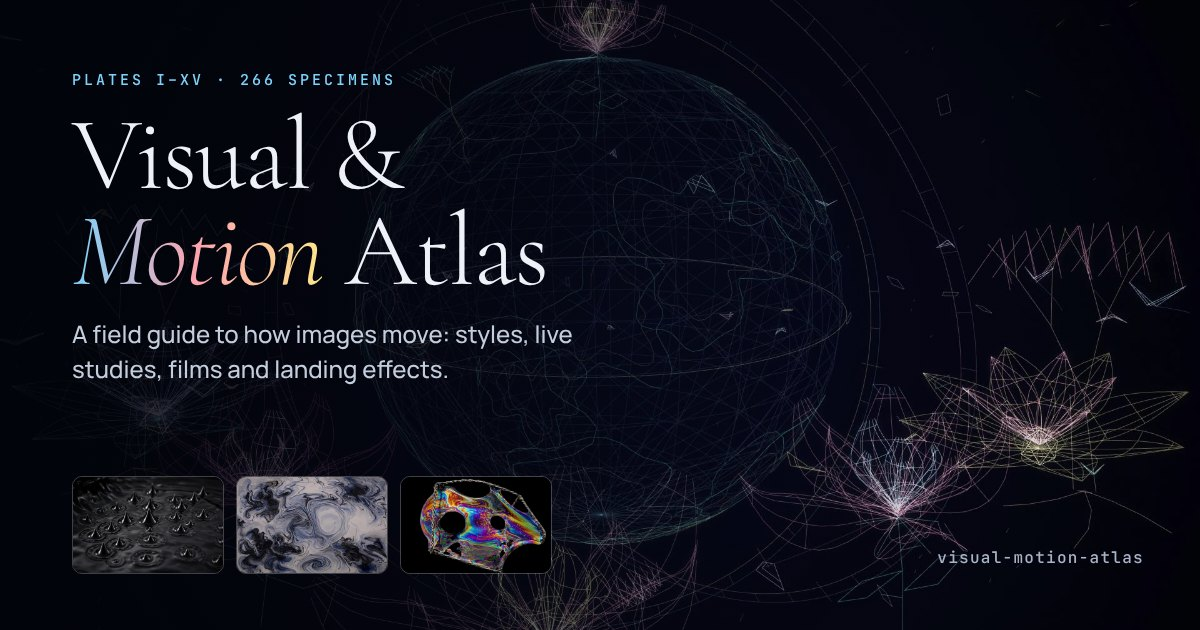
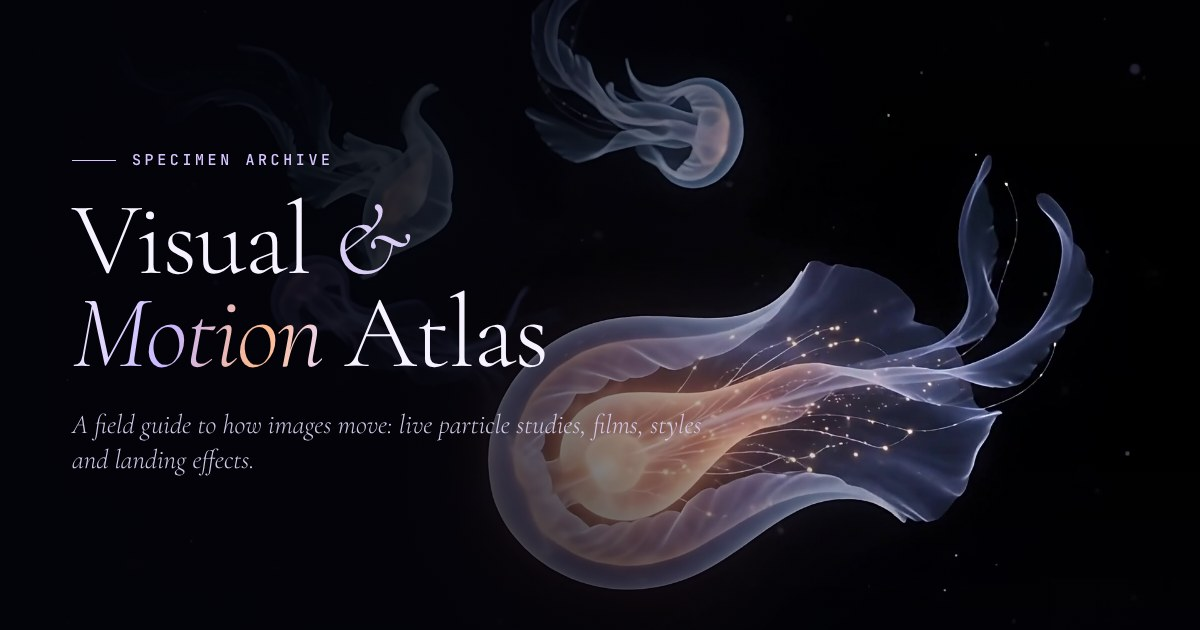
Performance pass, low-power mode, adaptive sharpness, new share card, a11y fixes
- Hero loads only on the home page; Genesis art only when chosen; one video
  source per device (720p MP4 with WebM fallback on phones)
- River creates media lazily within 40% of view
- Low-power devices (Data Saver, no/soft WebGL, <=2 GB) get films and stills
  instead of live WebGL, with a 'Show live motion' opt-in
- Studies step their pixel ratio down when frames run slow
- Share card shows the jellyfish; canonical/OG/sitemap/robots point at the
  live Vercel site
- Accessible names for the finder button, reel heading and code panel

Claude-Session: https://claude.ai/code/session_01KjCgApHxzQCxtiXf1eMKgi

Changed region(s): [[0.0617, 0.0, 0.9867, 1.0], [0.7708, 0.1508, 0.8017, 0.181], [0.74, 0.2111, 0.7708, 0.2413]]

diff --git a/site/atlas.html b/site/atlas.html
@@ -1,4 +1,4 @@
-<!doctype html><html lang="en"><head><meta charset="utf-8"><meta name="viewport" content="width=device-width,initial-scale=1"><meta name="description" content="A field guide to how images move: 266 visual styles, animation techniques, live motion studies, specimen films, UI components and landing-page effects, each with briefs, prompts and code."><title>Visual &amp; Motion Atlas: styles, motion studies and landing effects</title><link rel="canonical" href="https://visual-motion-atlas.indiaroseclifton.chatgpt.site/atlas"><meta name="theme-color" content="#02040b"><link rel="icon" href="assets/favicon.svg" type="image/svg+xml"><meta property="og:type" content="website"><meta property="og:site_name" content="Visual &amp; Motion Atlas"><meta property="og:title" content="Visual &amp; Motion Atlas"><meta property="og:description" content="A field guide to how images move: styles, live studies, specimen films and landing effects."><meta property="og:url" content="https://visual-motion-atlas.indiaroseclifton.chatgpt.site/atlas"><meta property="og:image" content="https://visual-motion-atlas.indiaroseclifton.chatgpt.site/assets/og-atlas.jpg"><meta property="og:image:width" content="1200"><meta property="og:image:height" content="630"><meta property="og:image:alt" content="Visual &amp; Motion Atlas: the Genesis film with ferrofluid, ink marbling and soap film stills"><meta name="twitter:card" content="summary_large_image"><meta name="twitter:title" content="Visual &amp; Motion Atlas"><meta name="twitter:description" content="A field guide to how images move: styles, live studies, specimen films and landing effects."><meta name="twitter:image" content="https://visual-motion-atlas.indiaroseclifton.chatgpt.site/assets/og-atlas.jpg"><script type="application/ld+json">{"@context": "https://schema.org", "@graph": [{"@type": "WebSite", "@id": "https://visual-motion-atlas.indiaroseclifton.chatgpt.site/#site", "name": "Visual & Motion Atlas", "url": "https://visual-motion-atlas.indiaroseclifton.chatgpt.site/atlas", "description": "A field guide to how images move: 266 visual styles, animation techniques, live motion studies, specimen films, UI components and landing-page effects, each with briefs, prompts and code.", "inLanguage": "en"}, {"@type": "CollectionPage", "@id": "https://visual-motion-atlas.indiaroseclifton.chatgpt.site/atlas#page", "url": "https://visual-motion-atlas.indiaroseclifton.chatgpt.site/atlas", "name": "Visual & Motion Atlas: styles, motion studies and landing effects", "isPartOf": {"@id": "https://visual-motion-atlas.indiaroseclifton.chatgpt.site/#site"}, "about": ["Visual design styles", "Motion design", "Animation techniques", "UI components", "Landing page effects"], "primaryImageOfPage": "https://visual-motion-atlas.indiaroseclifton.chatgpt.site/assets/og-atlas.jpg"}]}</script><link rel="stylesheet" href="system-presets.css"><link rel="stylesheet" href="app.css"><link rel="stylesheet" href="guides.css"><link rel="stylesheet" href="creator.css"><link rel="stylesheet" href="landing.css"><link rel="stylesheet" href="publishing.css"><link rel="stylesheet" href="extracted.css"><link rel="preconnect" href="https://fonts.googleapis.com"><link rel="preconnect" href="https://fonts.gstatic.com" crossorigin><link rel="stylesheet" href="https://fonts.googleapis.com/css2?family=Cormorant+Garamond:ital,wght@0,300;0,400;1,300;1,400&family=Manrope:wght@400;500;600&family=JetBrains+Mono:wght@400;500&display=swap"><link rel="stylesheet" href="home.css"><link rel="stylesheet" href="atlas-theme.css"><link rel="stylesheet" href="atlas-enhance.css"><link rel="stylesheet" href="component-lab.css"><link rel="stylesheet" href="effects-lab.css"><link rel="stylesheet" href="motion-lab.css"><link rel="stylesheet" href="new-styles.css"><link rel="stylesheet" href="atlas-features.css"><link rel="stylesheet" href="specimen-films.css"><link rel="stylesheet" href="live-sims.css"><link rel="stylesheet" href="atlas-share.css"><link rel="stylesheet" href="atlas-explore.css"><link rel="stylesheet" href="atlas-tours.css"><link rel="stylesheet" href="backgrounds.css"><link rel="stylesheet" href="showcase.css"><link rel="stylesheet" href="studio-river.css"><link rel="stylesheet" href="atlas-refine.css"><link rel="stylesheet" href="system-previews.css"><link rel="stylesheet" href="art-references.css"></head><body><noscript><div style="max-width:760px;margin:40px auto;padding:0 16px;font-family:system-ui,sans-serif;line-height:1.6;color:#0d1220"><h1>Visual &amp; Motion Atlas</h1><p>A field guide to how images move: 266 visual styles, animation techniques, live motion studies, specimen films, UI components and landing-page effects, each with briefs, prompts and code.</p><h2>Inside the atlas</h2><ul><li>Catalogue: 266 specimens across visual styles, design elements, animation art, interface motion, cinematic directions, UI components, landing effects and design systems.</li><li>Animation studio: 60 working animations, 5 live simulations (Lorenz attractor, double pendulum, reaction-diffusion, metaballs, ferrofluid), an easing lab and a film library.</li><li>Landing effects lab: 37 scroll, pointer and film effects with copy-ready code.</li><li>UI component lab: 40 components in 22 themes with HTML, CSS, React and token export.</li><li>Design systems, fonts and pairings, icon families, inspiration boards and project briefs.</li></ul><p>The atlas is interactive and needs JavaScript.</p></div></noscript>
+<!doctype html><html lang="en"><head><meta charset="utf-8"><meta name="viewport" content="width=device-width,initial-scale=1"><meta name="description" content="A field guide to how images move: 266 visual styles, animation techniques, live motion studies, specimen films, UI components and landing-page effects, each with briefs, prompts and code."><title>Visual &amp; Motion Atlas: styles, motion studies and landing effects</title><link rel="canonical" href="https://motionatlas-ten.vercel.app/atlas"><meta name="theme-color" content="#02040b"><link rel="icon" href="assets/favicon.svg" type="image/svg+xml"><meta property="og:type" content="website"><meta property="og:site_name" content="Visual &amp; Motion Atlas"><meta property="og:title" content="Visual &amp; Motion Atlas"><meta property="og:description" content="A field guide to how images move: styles, live studies, specimen films and landing effects."><meta property="og:url" content="https://motionatlas-ten.vercel.app/atlas"><meta property="og:image" content="https://motionatlas-ten.vercel.app/assets/og-atlas.jpg?v=2"><meta property="og:image:width" content="1200"><meta property="og:image:height" content="630"><meta property="og:image:alt" content="Visual &amp; Motion Atlas: a glowing lantern jellyfish drifting beside the title"><meta name="twitter:card" content="summary_large_image"><meta name="twitter:title" content="Visual &amp; Motion Atlas"><meta name="twitter:description" content="A field guide to how images move: styles, live studies, specimen films and landing effects."><meta name="twitter:image" content="https://motionatlas-ten.vercel.app/assets/og-atlas.jpg?v=2"><script type="application/ld+json">{"@context": "https://schema.org", "@graph": [{"@type": "WebSite", "@id": "https://motionatlas-ten.vercel.app/#site", "name": "Visual & Motion Atlas", "url": "https://motionatlas-ten.vercel.app/atlas", "description": "A field guide to how images move: 266 visual styles, animation techniques, live motion studies, specimen films, UI components and landing-page effects, each with briefs, prompts and code.", "inLanguage": "en"}, {"@type": "CollectionPage", "@id": "https://motionatlas-ten.vercel.app/atlas#page", "url": "https://motionatlas-ten.vercel.app/atlas", "name": "Visual & Motion Atlas: styles, motion studies and landing effects", "isPartOf": {"@id": "https://motionatlas-ten.vercel.app/#site"}, "about": ["Visual design styles", "Motion design", "Animation techniques", "UI components", "Landing page effects"], "primaryImageOfPage": "https://motionatlas-ten.vercel.app/assets/og-atlas.jpg?v=2"}]}</script><link rel="stylesheet" href="system-presets.css"><link rel="stylesheet" href="app.css"><link rel="stylesheet" href="guides.css"><link rel="stylesheet" href="creator.css"><link rel="stylesheet" href="landing.css"><link rel="stylesheet" href="publishing.css"><link rel="stylesheet" href="extracted.css"><link rel="preconnect" href="https://fonts.googleapis.com"><link rel="preconnect" href="https://fonts.gstatic.com" crossorigin><link rel="stylesheet" href="https://fonts.googleapis.com/css2?family=Cormorant+Garamond:ital,wght@0,300;0,400;1,300;1,400&family=Manrope:wght@400;500;600&family=JetBrains+Mono:wght@400;500&display=swap"><link rel="stylesheet" href="home.css"><link rel="stylesheet" href="atlas-theme.css"><link rel="stylesheet" href="atlas-enhance.css"><link rel="stylesheet" href="component-lab.css"><link rel="stylesheet" href="effects-lab.css"><link rel="stylesheet" href="motion-lab.css"><link rel="stylesheet" href="new-styles.css"><link rel="stylesheet" href="atlas-features.css"><link rel="stylesheet" href="specimen-films.css"><link rel="stylesheet" href="live-sims.css"><link rel="stylesheet" href="atlas-share.css"><link rel="stylesheet" href="atlas-explore.css"><link rel="stylesheet" href="atlas-tours.css"><link rel="stylesheet" href="backgrounds.css"><link rel="stylesheet" href="showcase.css"><link rel="stylesheet" href="studio-river.css"><link rel="stylesheet" href="atlas-refine.css"><link rel="stylesheet" href="system-previews.css"><link rel="stylesheet" href="art-references.css"></head><body><noscript><div style="max-width:760px;margin:40px auto;padding:0 16px;font-family:system-ui,sans-serif;line-height:1.6;color:#0d1220"><h1>Visual &amp; Motion Atlas</h1><p>A field guide to how images move: 266 visual styles, animation techniques, live motion studies, specimen films, UI components and landing-page effects, each with briefs, prompts and code.</p><h2>Inside the atlas</h2><ul><li>Catalogue: 266 specimens across visual styles, design elements, animation art, interface motion, cinematic directions, UI components, landing effects and design systems.</li><li>Animation studio: 60 working animations, 5 live simulations (Lorenz attractor, double pendulum, reaction-diffusion, metaballs, ferrofluid), an easing lab and a film library.</li><li>Landing effects lab: 37 scroll, pointer and film effects with copy-ready code.</li><li>UI component lab: 40 components in 22 themes with HTML, CSS, React and token export.</li><li>Design systems, fonts and pairings, icon families, inspiration boards and project briefs.</li></ul><p>The atlas is interactive and needs JavaScript.</p></div></noscript>
 <a href="#main" class="skiplink">Skip to content</a>
 <header><a class="brand" href="#home" aria-label="Visual and Motion Atlas home"><span class="brandmark">V/M</span><span>VISUAL &amp; MOTION<br>ATLAS / SPECIMEN ARCHIVE</span></a><nav aria-label="Main"><a href="#home">Home</a><a href="#browse">Catalogue</a><a href="#systems">Design systems</a><a href="#motion">Animation studio</a><a href="#tours">Guided tours</a><details class="navGroup studioGroup"><summary>Your studio</summary><div><a href="#projects">My projects</a><a href="#inspiration">Inspiration</a></div></details></nav><nav class="librarynav" aria-label="Libraries"><details class="navGroup"><summary>Visual</summary><div><a href="#art">Art styles</a><a href="#cinema">Film looks</a><a href="#backgrounds">Backgrounds</a><a href="#vases">Vase studies</a><a href="#pairings">Style pairings</a><a href="#compare">Compare styles</a></div></details><details class="navGroup"><summary>Motion</summary><div><a href="#motion">Animation studio</a><a href="#effects">Landing effects</a><a href="#showcase">Showcase reels</a><a href="particle-studio.html">Particle studio</a></div></details><details class="navGroup"><summary>Interface</summary><div><a href="#systems">Design systems</a><a href="#ux">UI components</a><a href="#icons">Icon families</a><a href="#typography">Fonts &amp; type</a><a href="#playground">System playground</a><a href="#assets">Extracted assets</a></div></details><a href="#references">Sources &amp; credits</a></nav></header>
 <main id="main" tabindex="-1"><div id="routeTrail" class="routeTrail" aria-label="Current location"></div><section id="browse" class="page active"><div class="archivehead"><h1>Catalogue.</h1><div class="archivenote"><p>Explore interface systems, components, materials, art and motion. Choose a collection to focus the view, or search across the whole Atlas.</p><p>222 specimens · 32 web systems · 60 motion studies</p></div></div><div class="archiveworkspace"><aside class="collectionrail" aria-label="Collections"><p class="railtitle">Collections</p><button data-collection="" aria-pressed="true">All specimens <span>222</span></button><button data-collection="Art styles">Art styles <span>36</span></button><button data-collection="Styles" aria-pressed="false">Visual styles <span>22</span></button><button data-collection="Elements" aria-pressed="false">Design elements <span>16</span></button><button data-collection="Animation art" aria-pressed="false">Animation art <span>74</span></button><button data-collection="Interface motion" aria-pressed="false">Interface motion <span>20</span></button><button data-collection="Cinematic directions">Film looks <span>8</span></button><button data-collection="UX/UI components">UX/UI components <span>40</span></button><button data-collection="Landing effects">Landing effects <span>18</span></button><button data-collection="Design systems">Design systems <span>32</span></button><div class="railnote">References are generated interpretations and component studies. Original works are credited in the source library.</div><a class="railsource" href="#vases">All 40 vase treatments ↗</a><br><a class="railsource" href="#references">Original sources ↗</a></aside><div class="collectionbody"><div class="sectionhead"><h2>Contact sheet</h2><div class="viewtools"><button id="density" class="quiet" aria-pressed="false">Compact view</button><button id="advancedToggle" class="quiet" aria-expanded="false">More filters +</button></div></div><div class="filters"><label class="search"><span aria-hidden="true"><svg viewBox="0 0 24 24" width="18" height="18" fill="none" stroke="currentColor" stroke-width="1.5"><circle cx="10" cy="10" r="6"/><path d="m15 15 5 5"/></svg></span><input id="search" type="search" placeholder="Search glass, paper, particles, tabs…" aria-label="Search the catalogue"></label><label>Collection<select id="group"><option value="">All entries</option><option>Styles</option><option>Elements</option><option>Animation art</option><option>Interface motion</option><option>Cinematic directions</option><option>UX/UI components</option><option>Landing effects</option><option>Design systems</option><option>Art styles</option></select></label><label>Mood<select id="mood"><option value="">All moods</option><option>Calm</option><option>Expressive</option><option>Precise</option></select></label><button id="savedOnly" class="filterbutton" aria-pressed="false">Saved entries</button></div><div id="advanced" class="filters extra" hidden><label>Purpose<select id="purpose"><option value="">All purposes</option><option>Interface</option><option>Illustration</option></select></label><label>Effort<select id="effort"><option value="">All levels</option><option>Low</option><option>Medium</option><option>High</option></select></label><label>Medium<select id="medium"><option value="">All media</option></select></label><button id="clearFilters" class="quiet">Reset filters</button></div><p id="resultCount" class="resultcount" aria-live="polite">Loading the collection…</p><div id="grid" class="grid"></div><div class="loadrow"><button id="loadMore" class="secondary">Show more entries</button></div></div></div></section>

diff --git a/site/studio-river.js b/site/studio-river.js
@@ -5,38 +5,41 @@
    a couple of GPU contexts exist at a time. The whale opens the river and glides across its whole width. */
 (()=>{
  const ITEMS=[
-  {id:'whale',kind:'live',wide:true,src:'studies/whale-glide.html?hero',open:'studies/whale-glide.html',kicker:'Live particles · WebGL',title:'Whale, gliding.',
+  {id:'whale',kind:'live',wide:true,still:'assets/studies/whale-source.jpg',src:'studies/whale-glide.html?hero',open:'studies/whale-glide.html',kicker:'Live particles · WebGL',title:'Whale, gliding.',
    text:'About 52,000 grains of blue light, sampled from a still of a humpback, cross the page. A wave runs from head to fluke and a wake of dust is left behind in the water.',
    kit:{file:'whale-glide.html',modes:[['glide','Glide across'],['swim','Swim in place']],density:true,original:false,prompt:'A humpback whale made entirely of tiny glowing blue particles, side profile facing right, gliding through a deep black void. Electric-blue stardust outlines the body, flukes and long pectoral fins, with a trail of drifting particles behind the tail and a few soft out-of-focus blue bokeh orbs. Dark, cinematic, highly detailed, 3:2.'}},
-  {id:'lion',kind:'live',src:'studies/lion-phoenix.html?hero',open:'studies/lion-phoenix.html',kicker:'Live particles · WebGL',title:'Lion to phoenix.',
+  {id:'lion',kind:'live',still:'assets/studies/lion-source.jpg',src:'studies/lion-phoenix.html?hero',open:'studies/lion-phoenix.html',kicker:'Live particles · WebGL',title:'Lion to phoenix.',
    text:'A lion of golden dust, sampled from the reference still. The mane goes first, the dust turns through a spiral galaxy and settles as the phoenix from the film. An 8-second loop.',
    kit:{file:'lion-phoenix.html',modes:[['loop','Lion to phoenix'],['lion','Lion'],['phoenix','Phoenix']],density:true,original:true,prompt:'8-second particle animation to embed in a website. Warm golden particles form a lion’s head, hold, then scatter and reform into a phoenix with wings spread. Dramatic yet elegant luminous motion.'}},
   {id:'lionfilm',kind:'video',src:'assets/films/lion-phoenix.mp4',small:'assets/films/lion-phoenix-720.mp4',webm:'assets/films/lion-phoenix.webm',poster:'assets/films/lion-phoenix.jpg',open:'assets/films/lion-phoenix.mp4',kicker:'Film · loops seamlessly',title:'Lion to phoenix, the film.',
    text:'The original film the live study grew from: the lion dissolves into a golden vortex, a flash, and the phoenix opens its wings.',
    kit:{original:true,prompt:'8-second particle animation to embed in a website. Warm golden particles form a lion’s head, hold, then scatter and reform into a phoenix with wings spread. Dramatic yet elegant luminous motion.'}},
-  {id:'butterfly',kind:'live',src:'studies/butterfly.html?hero',open:'studies/butterfly.html',kicker:'Live particles · WebGL',title:'Glitter butterfly.',
+  {id:'butterfly',kind:'live',still:'assets/studies/butterfly-source.jpg',src:'studies/butterfly.html?hero',open:'studies/butterfly.html',kicker:'Live particles · WebGL',title:'Glitter butterfly.',
    text:'Grains sampled from a frame of the butterfly film, wings fully open. Each grain turns about the body, so the wings fold up out of the page and open again as it drifts, shedding glitter.',
    kit:{file:'butterfly.html',modes:[['flutter','Flutter'],['rest','Rest']],density:true,original:false,prompt:'A swallowtail butterfly formed from fine champagne-gold glitter, seen from directly above with its wings fully open, on pure black. Bright glittering edges and veins, translucent wing panels, a slow gentle wingbeat, a few grains drifting away. Vertical 2:3, 15 seconds, seamless loop.'}},
   {id:'jelly',kind:'video',src:'assets/films/jellyfish.mp4',small:'assets/films/jellyfish-720.mp4',webm:'assets/films/jellyfish.webm',poster:'assets/films/jellyfish.jpg',open:'assets/films/jellyfish.mp4',kicker:'Film · loops seamlessly',title:'Jellyfish, drifting.',
    text:'A lantern jellyfish with an amber core turns through the dark while paler ones drift past, trailing threads of light.',
    kit:{original:false,prompt:'Bioluminescent jellyfish drifting in a black void: one large lantern jellyfish with a glowing amber-peach core and a translucent lavender bell, smaller pale blue and violet jellyfish trailing long smoky tentacles and fine threads of light. Slow, graceful, cinematic, 16:9, 10 seconds, seamless loop.'}},
-  {id:'stardust',kind:'live',src:'studies/stardust-bird-fox.html?hero',open:'studies/stardust-bird-fox.html',kicker:'Live particles · WebGL',title:'Stardust: bird to fox.',
+  {id:'stardust',kind:'live',still:'assets/studies/stardust-still.jpg',src:'studies/stardust-bird-fox.html?hero',open:'studies/stardust-bird-fox.html',kicker:'Live particles · WebGL',title:'Stardust: bird to fox.',
    text:'Golden dust settles over animated models of a stork in flight and a running fox; every few seconds it lets go and re-forms as the other animal.',
    kit:{file:'stardust-bird-fox.html',modes:[['loop','Bird to fox'],['bird','Golden bird'],['fox','Running fox']],density:false,original:false,prompt:'Golden stardust forms a stork in flight with its wings raised in a V, shedding embers, then lets go and re-forms as a running fox, and back again. Additive gold particles on black, soft bokeh, elegant and calm.'}}];
 
+ const M=window.AtlasMotion||{lite:false,saveData:false,sources:s=>`<source src="${s.webm}" type="video/webm"><source src="${s.src}" type="video/mp4">`,setFull(){}};
  const esc=s=>String(s).replace(/&/g,'&amp;').replace(/</g,'&lt;');
  const reduce=matchMedia('(prefers-reduced-motion: reduce)');
- let held=reduce.matches; // the river-wide pause
+ let held=reduce.matches||M.saveData; // the river-wide pause (Data Saver starts it held)
  const rows=[];
 
  function mediaFor(it){
   if(it.kind==='video'){const v=document.createElement('video');Object.assign(v,{muted:true,loop:true,playsInline:true,preload:'none',poster:it.poster});v.setAttribute('muted','');v.setAttribute('aria-label',it.title.replace(/\.$/,''));
-   v.innerHTML=`${it.small?`<source src="${it.small}" type="video/mp4" media="(max-width: 900px)">`:''}<source src="${it.webm}" type="video/webm"><source src="${it.src}" type="video/mp4">`;return v;}
+   if(M.saveData)v.controls=true;v.innerHTML=M.sources(it);return v;}
+  // on a low-power device a live study shows its source still instead of running WebGL
+  if(M.lite){const im=document.createElement('img');im.src=it.still;im.alt='';im.decoding='async';im.className='riverStill';return im;}
   const f=document.createElement('iframe');f.src=it.src;f.title=it.title.replace(/\.$/,'')+', live study';f.tabIndex=-1;f.setAttribute('allowtransparency','true');f.setAttribute('loading','eager');return f;
  }
  function post(f,msg){['whale','lion','stardust','fly'].forEach(k=>{try{f.contentWindow.postMessage(k+':'+msg,'*');}catch{}});}
  function run(r){
-  if(!r.m)return;const go=r.visible&&!held&&isMotion();
+  if(!r.m||r.m.tagName==='IMG')return;const go=r.visible&&!held&&isMotion();
   if(r.m.tagName==='VIDEO'){if(go)r.m.play().catch(()=>{});else r.m.pause();}
   else post(r.m,go?'play':'pause');
  }
@@ -88,6 +91,7 @@
   const river=document.createElement('section');river.className='studyRiver';river.setAttribute('aria-labelledby','riverTitle');
   river.innerHTML=`<div class="riverHead"><p class="riverKicker">Live studies &amp; films</p><h2 id="riverTitle">Motion, set loose.</h2>
    <p class="riverMake">Want your own? <a href="particle-studio.html">Turn any picture into particles in the Particle studio</a> <span aria-hidden="true">→</span></p>
+   ${M.lite?`<p class="riverLite">Showing stills on this device to save power. <button type="button" class="riverLiteOn">Show live motion</button></p>`:''}
    <button type="button" class="riverHold" aria-pressed="${held}">${held?'Play the motion':'Pause the motion'}</button></div>`+
    ITEMS.map((it,i)=>`<article class="riverRow${it.wide?' isWide':''}${!it.wide&&i%2===0?' isFlip':''}" data-id="${it.id}">
     <div class="riverMedia${it.kind==='video'?' isFilm':''}"></div>
@@ -97,15 +101,15 @@
   const fit=()=>{const sb=innerWidth-document.documentElement.clientWidth;river.style.setProperty('--sbw',sb+'px');};fit();addEventListener('resize',fit);
 
   river.querySelectorAll('.riverRow').forEach(el=>{const it=ITEMS.find(x=>x.id===el.dataset.id);const r={el,it,box:el.querySelector('.riverMedia'),m:null,visible:false};rows.push(r);
-   // films keep their poster in place from the start so the river is never empty
-   if(it.kind==='video'){r.m=mediaFor(it);r.box.append(r.m);}});
+  });
   // load as a piece approaches, release live studies once far away
   const near=new IntersectionObserver(es=>es.forEach(e=>{const r=rows.find(x=>x.el===e.target);if(!r)return;
-   if(e.isIntersecting){if(!r.m){r.m=mediaFor(r.it);r.m.addEventListener('load',()=>run(r));r.box.append(r.m);}else if(r.m.tagName==='VIDEO'&&r.m.preload==='none'){r.m.preload='auto';}}
-   else if(r.m&&r.m.tagName==='IFRAME'){r.m.remove();r.m=null;}}),{rootMargin:'90% 0px'});
+   if(e.isIntersecting){if(!r.m){r.m=mediaFor(r.it);if(r.m.tagName==='IFRAME')r.m.addEventListener('load',()=>run(r));else if(r.m.tagName==='VIDEO')r.m.preload=M.saveData?'none':'auto';r.box.append(r.m);run(r);}else if(r.m.tagName==='VIDEO'&&r.m.preload==='none'){r.m.preload='auto';}}
+   else if(r.m&&r.m.tagName==='IFRAME'){r.m.remove();r.m=null;}}),{rootMargin:'40% 0px'});
   const seen=new IntersectionObserver(es=>es.forEach(e=>{const r=rows.find(x=>x.el===e.target);if(!r)return;r.visible=e.isIntersecting;
    run(r);}),{threshold:.3});
   rows.forEach(r=>{near.observe(r.el);seen.observe(r.el);});
+  const liteOn=river.querySelector('.riverLiteOn');if(liteOn)liteOn.onclick=()=>{M.setFull(true);location.reload();};
   const btn=river.querySelector('.riverHold');
   btn.onclick=()=>{held=!held;btn.setAttribute('aria-pressed',String(held));btn.textContent=held?'Play the motion':'Pause the motion';rows.forEach(run);};
   addEventListener('hashchange',()=>setTimeout(()=>rows.forEach(run),50));

diff --git a/site/hero-scenes.js b/site/hero-scenes.js
@@ -3,9 +3,27 @@
    studies in their hero mode, and the original Genesis film with its four plates. A quiet row of marks in
    the hero's foot switches between them. A new scene loads behind the current one and only crossfades in once it
    is actually drawing, so the change reads as one picture dissolving into the next. */
+/* How much motion this device should get. Live WebGL studies are skipped (stills or films instead) when the
+   browser asks to save data, has no WebGL, renders WebGL in software, or reports 2 GB of memory or less.
+   ?fullmotion or the "show live motion" link (localStorage atlasMotion=full) overrides it. */
+window.AtlasMotion=window.AtlasMotion||(()=>{
+ let force=null;try{force=localStorage.getItem('atlasMotion');}catch{}
+ if(/[?&]fullmotion\b/.test(location.search))force='full';
+ const conn=navigator.connection||{},saveData=!!conn.saveData;let noGL=false,soft=false;
+ try{const c=document.createElement('canvas'),gl=c.getContext('webgl')||c.getContext('experimental-webgl');
+  if(!gl)noGL=true;else{const ext=gl.getExtension('WEBGL_debug_renderer_info');const r=ext?String(gl.getParameter(ext.UNMASKED_RENDERER_WEBGL)):'';
+   soft=/swiftshader|llvmpipe|softpipe|software|basic render/i.test(r);const lose=gl.getExtension('WEBGL_lose_context');if(lose)lose.loseContext();}}catch{noGL=true;}
+ const lowMem=!!(navigator.deviceMemory&&navigator.deviceMemory<=2);
+ const lite=force==='full'?false:force==='lite'?true:(saveData||noGL||soft||lowMem);
+ const small=()=>matchMedia('(max-width: 900px)').matches;
+ // one download per device: the 720p cut on small screens (WebM only if MP4 can't play), WebM then MP4 elsewhere
+ const sources=s=>small()&&s.small?`<source src="${s.small}" type="video/mp4"><source src="${s.webm}" type="video/webm">`:`<source src="${s.webm}" type="video/webm"><source src="${s.src}" type="video/mp4">`;
+ return {lite,saveData,noGL,sources,setFull(on){try{localStorage.setItem('atlasMotion',on?'full':'lite');}catch{}}};
+})();
 (()=>{
  const H=window.HomeAtlas;if(!H||!H.hero)return;
- const SCENES=[
+ const M=window.AtlasMotion;
+ const SCENES_ALL=[
   {id:'jelly',name:'Jellyfish',label:'Jellyfish, film',kind:'video',src:'assets/films/jellyfish.mp4',small:'assets/films/jellyfish-720.mp4',webm:'assets/films/jellyfish.webm',poster:'assets/films/jellyfish.jpg',tint:['#f3eaff','#c7b6ff','#ffb98a','#e9d8ff'],eye:'#d6c4ff'},
   {id:'lionfilm',name:'Lion to phoenix',label:'Lion to phoenix, film',kind:'video',src:'assets/films/lion-phoenix.mp4',small:'assets/films/lion-phoenix-720.mp4',webm:'assets/films/lion-phoenix.webm',poster:'assets/films/lion-phoenix.jpg'},
   {id:'lion',name:'Lion to phoenix · live',label:'Lion to phoenix, live particles',kind:'live',src:'studies/lion-phoenix.html?hero'},
@@ -13,6 +31,8 @@
   {id:'whale',name:'Whale',label:'Whale gliding, live particles',kind:'live',src:'studies/whale-glide.html?hero',tint:['#e3f0ff','#6fb0ff','#2f6dff','#a9d4ff'],eye:'#8fc2ff'},
   {id:'butterfly',name:'Butterfly',label:'Glitter butterfly, live particles',kind:'live',src:'studies/butterfly.html?hero',tint:['#fffaf0','#f3e2c0','#d9b98a','#fff1d8'],eye:'#f0dcb4'},
   {id:'genesis',name:'Genesis',label:'Genesis, the atlas film in four plates',kind:'genesis'}];
+ // on a low-power device the hero keeps to its films and Genesis
+ const SCENES=SCENES_ALL.filter(s=>!M.lite||s.kind!=='live');
  const KEY='vmaHeroScene2',hero=H.hero,section=H.section,film=H.film,gv=H.video;
  const store={get(){try{return localStorage.getItem(KEY);}catch{return null;}},set(v){try{localStorage.setItem(KEY,v);}catch{}}};
 
@@ -26,7 +46,7 @@
  meta.prepend(pick);
  const nameEl=pick.querySelector('.vmaSceneName'),marks=[...pick.querySelectorAll('.vmaSceneMark')];
 
- let cur=null,layer=null,token=0,paused=H.reduced.matches,media=null;
+ let cur=null,layer=null,token=0,paused=H.reduced.matches||M.saveData,media=null;
  const scene=id=>SCENES.find(s=>s.id===id)||SCENES[0];
  const showName=s=>{nameEl.textContent=`${String(SCENES.indexOf(s)+1).padStart(2,'0')} · ${s.name}`;};
  marks.forEach(m=>{const s=scene(m.dataset.id);
@@ -38,7 +58,7 @@
   const el=document.createElement('div');el.className='vmaSceneLayer isShifted';
   if(s.kind==='video'){
    const v=document.createElement('video');Object.assign(v,{muted:true,loop:true,playsInline:true,preload:'auto',poster:s.poster});v.setAttribute('muted','');
-   v.innerHTML=`${s.small?`<source src="${s.small}" type="video/mp4" media="(max-width: 900px)">`:''}<source src="${s.webm}" type="video/webm"><source src="${s.src}" type="video/mp4">`;el.append(v);
+   v.innerHTML=M.sources(s);el.append(v);
    v.addEventListener('timeupdate',()=>{if(cur===s.id)H.tc.textContent=`${H.fmt(v.currentTime)} / ${H.fmt(v.duration||8)}`;});
    return {el,m:v,ready:new Promise(res=>{v.addEventListener(paused?'loadeddata':'playing',res,{once:true});if(!paused)v.play().catch(()=>v.addEventListener('loadeddata',res,{once:true}));})};
   }
@@ -53,6 +73,7 @@
   hero.classList.toggle('sceneOther',s.kind!=='genesis');
   H.cinemaBtn.querySelector('span').textContent=hero.classList.contains('isCinema')?'Show the atlas':(s.kind==='live'?'Watch the scene':'Watch the film');
   if(s.kind==='genesis'){
+   film.querySelectorAll('[data-src]').forEach(el=>{el.src=el.dataset.src;el.removeAttribute('data-src');});
    layer=null;media=null;H.eyebrow.textContent='';H.current=-1;H.tick();
    if(prev){prev.el.classList.remove('isOn');setTimeout(()=>prev.el.remove(),1800);}
    H.update();H.syncButton();return;
@@ -75,6 +96,7 @@
  // play / pause, visibility and cinema mode follow whichever scene is showing
  const baseUpdate=H.update.bind(H),baseSync=H.syncButton.bind(H),baseCinema=H.cinemaBtn.onclick;
  H.update=function(){
+  if(!cur)start();
   if(cur==='genesis'||!cur)return baseUpdate();
   const active=document.getElementById('home').classList.contains('active');
   document.body.classList.toggle('cinemaMode',active);if(!active)document.body.classList.remove('vmaCinema');
@@ -99,5 +121,7 @@
   document.body.classList.toggle('vmaCinema',on);if(on&&paused){paused=false;H.update();H.syncButton();}
  };
 
- switchTo(store.get()||SCENES[0].id,false);
+ const homeActive=()=>document.getElementById('home')?.classList.contains('active');
+ const start=()=>{if(cur||!homeActive())return;switchTo(store.get()||SCENES[0].id,false);};
+ start();addEventListener('hashchange',()=>setTimeout(start,30));
 })();

diff --git a/site/home.js b/site/home.js
@@ -22,8 +22,8 @@ window.HomeAtlas={
  section.innerHTML=`<div class="vmaHome">
 <section class="vmaHero" id="vmaHero" aria-label="Visual and Motion Atlas">
  <div class="vmaFilm" id="vmaFilm" aria-hidden="true">
-  <img src="assets/atlas-hero-poster.jpg" alt="">
-  <video id="genesisHero" muted playsinline loop preload="metadata">
+  <img data-src="assets/atlas-hero-poster.jpg" alt="">
+  <video id="genesisHero" muted playsinline loop preload="none">
    <source src="assets/atlas-hero-720.mp4" type="video/mp4" media="(max-width: 900px)">
    <source src="assets/atlas-hero-1080.mp4" type="video/mp4">
    <source src="assets/atlas-hero.webm" type="video/webm">
@@ -87,6 +87,10 @@ window.HomeAtlas={
 <footer class="vmaInner vmaFooter"><span>Visual &amp; Motion Atlas</span><a href="#inspiration">Your inspiration library &rarr;</a><a href="#home?film" id="vmaBackToFilm">Back to the film &uarr;</a></footer>
 </div>`;
  document.getElementById('main').prepend(section);
+ // the Genesis poster waits for the scene switcher to ask for it; without the switcher it loads straight away
+ // (checked once every script has run: a plain timeout can fire while the switcher is still downloading)
+ const genesisArt=()=>{if(!window.AtlasMotion)section.querySelectorAll('#vmaFilm [data-src]').forEach(el=>{el.src=el.dataset.src;el.removeAttribute('data-src');});};
+ if(document.readyState==='loading')document.addEventListener('DOMContentLoaded',genesisArt,{once:true});else setTimeout(genesisArt,0);
 
  const $=s=>section.querySelector(s);
  this.section=section;this.hero=$('#vmaHero');this.film=$('#vmaFilm');this.video=$('#genesisHero');

diff --git a/site/atlas-features.js b/site/atlas-features.js
@@ -72,7 +72,7 @@
     fdlg.close();if(g==='entry'){location.hash='browse';setTimeout(()=>window.openEntry?.(best),120);}if(g==='lab')location.hash=`ux?component=C30&theme=${best}`;if(g==='fx')location.hash=`effects?fx=${fx}`;if(g==='ease')location.hash=`motion?ease=${m[1].join(',')},${m[2]}`;});};
   q();if(!fdlg.open)fdlg.showModal();
  }
- function finderButton(){if($('.finderBtn'))return;const s=$('.aeSearchBtn');if(!s)return setTimeout(finderButton,300);const b=document.createElement('button');b.type='button';b.className='finderBtn';b.innerHTML='<svg viewBox="0 0 16 16" aria-hidden="true"><circle cx="8" cy="8" r="6" stroke="currentColor" stroke-width="1.4" fill="none"/><path d="M10.5 5.5 9 9l-3.5 1.5L7 7z" fill="currentColor"/></svg><span>Find a direction</span>';b.onclick=finder;s.insertAdjacentElement('beforebegin',b);}
+ function finderButton(){if($('.finderBtn'))return;const s=$('.aeSearchBtn');if(!s)return setTimeout(finderButton,300);const b=document.createElement('button');b.type='button';b.className='finderBtn';b.setAttribute('aria-label','Find a direction');b.innerHTML='<svg viewBox="0 0 16 16" aria-hidden="true"><circle cx="8" cy="8" r="6" stroke="currentColor" stroke-width="1.4" fill="none"/><path d="M10.5 5.5 9 9l-3.5 1.5L7 7z" fill="currentColor"/></svg><span>Find a direction</span>';b.onclick=finder;s.insertAdjacentElement('beforebegin',b);}
  window.AtlasFinder=finder;
 
  /* ---------- 3. Project moodboard + tokens ---------- */

diff --git a/site/sw.js b/site/sw.js
@@ -1,7 +1,7 @@
 /* Visual & Motion Atlas service worker: the atlas keeps working offline.
    Same-origin GETs are served from cache when present and refreshed in the background;
    pages fall back to the cached shell when the network is down. Video is never cached. */
-const CACHE='atlas-v22';
+const CACHE='atlas-v23';
 const SHELL=['atlas.html','app.css','home.css','atlas-theme.css','atlas-enhance.css','component-lab.css','effects-lab.css','motion-lab.css','new-styles.css','atlas-features.css','specimen-films.css','live-sims.css','atlas-share.css','atlas-explore.css','atlas-tours.css','atlas-refine.css','system-previews.css','art-references.js','art-references.css','art-references.json','backgrounds.js','backgrounds.css','showcase.js','showcase.css','studio-river.js','studio-river.css','app.js','home.js','hero-scenes.js','atlas-themes.js','component-lab.js','effects-lab.js','motion-lab.js','new-styles.js','atlas-features.js','specimen-films.js','live-sims.js','atlas-share.js','atlas-explore.js','atlas-tours.js','atlas-refine.js','system-previews.js','atlas-enhance.js','catalogue.json','expansion.json','content.json'];
 self.addEventListener('install',e=>{e.waitUntil(caches.open(CACHE).then(c=>c.addAll(SHELL).catch(()=>{})).then(()=>self.skipWaiting()));});
 self.addEventListener('activate',e=>{e.waitUntil(caches.keys().then(k=>Promise.all(k.filter(x=>x!==CACHE).map(x=>caches.delete(x)))).then(()=>self.clients.claim()));});

diff --git a/site/motion-lab.js b/site/motion-lab.js
@@ -60,7 +60,7 @@
      <div class="ezl-demo"><div class="ezl-card" id="ezlCard"><b>Saved</b><span>Direction added to project</span></div><div class="ezl-modal" id="ezlModal"></div></div>
     </div>
     <div class="ezl-actions"><button type="button" class="ezl-btn primary" id="ezlPlay">Play both</button><button type="button" class="ezl-btn" id="ezlShare">Copy share link</button><button type="button" class="ezl-btn" id="ezlSave">Save as motion token</button></div>
-    <div class="ezl-code"><div class="ezl-tabs" role="group" aria-label="Code format">${['CSS','Web Animations','GSAP','Motion'].map((k,i)=>`<button type="button" data-code="${i}">${k}</button>`).join('')}<button type="button" class="ezl-copy" id="ezlCopy">Copy</button></div><pre class="ezl-pre"><code id="ezlOut"></code></pre></div>
+    <div class="ezl-code"><div class="ezl-tabs" role="group" aria-label="Code format">${['CSS','Web Animations','GSAP','Motion'].map((k,i)=>`<button type="button" data-code="${i}">${k}</button>`).join('')}<button type="button" class="ezl-copy" id="ezlCopy">Copy</button></div><pre class="ezl-pre" tabindex="0" aria-label="Generated code"><code id="ezlOut"></code></pre></div>
     <div class="ezl-tokens"><div class="ezl-row"><b>Motion tokens</b><button type="button" class="ezl-btn small" id="ezlExport">Copy as CSS variables</button></div><ol id="ezlTokens"></ol></div>
    </div>
   </div>`;

diff --git a/site/studies/hero-mode.js b/site/studies/hero-mode.js
@@ -19,5 +19,18 @@
   window.studyReady = () => { if (sent || parent === window) return; sent = true;
     requestAnimationFrame(() => requestAnimationFrame(() => { try { parent.postMessage('study:ready', '*'); } catch (e) {} })); };
   window.studyHero = hero;
+  // Adaptive sharpness: if frames run slow for a few seconds, render at a lower pixel ratio (2 → 1.5 → 1 → 0.75).
+  // It only ever steps down, so it cannot oscillate. onChange(ratio) lets a study rescale its point sizes.
+  window.studyAdapt = (renderer, onChange) => {
+    let last = 0, sum = 0, n = 0, warm = 0;
+    const tick = now => { requestAnimationFrame(tick); if (document.hidden) { last = 0; return; }
+      if (last) { const dt = now - last; if (dt < 250) { sum += dt; n++; } } last = now;
+      if (++warm < 120 || n < 90) return;
+      const avg = sum / n; sum = 0; n = 0;
+      const r = renderer.getPixelRatio();
+      if (avg > 30 && r > .75) { const next = r > 1.5 ? 1.5 : r > 1 ? 1 : .75; renderer.setPixelRatio(next); if (onChange) onChange(next); }
+    };
+    requestAnimationFrame(tick);
+  };
   window.studyParams = params;
 })();

diff --git a/site/specimen-films.js b/site/specimen-films.js
@@ -115,7 +115,7 @@
   sec.innerHTML=`<div class="sfReelStage"><div class="sfReelLayer"></div><div class="sfReelLayer"></div><div class="sfReelShade"></div></div>
   <div class="vmaInner sfReelCopy">
    <p class="vmaLabel">Specimen reel &middot; Plates V&ndash;${ROMAN[list.length-1]}</p>
-   <h2 id="sfReelTitle"><span class="sfReelNo"></span><span class="sfReelName"></span></h2>
+   <h2 id="sfReelTitle"><span class="visually-hidden sfReelFallback">Specimen films</span><span class="sfReelNo"></span><span class="sfReelName"></span></h2>
    <p class="sfReelDesc"></p>
    <div class="vmaActions"><button type="button" class="vmaBtn vmaBtnPrimary sfReelOpen">Open the specimen <svg viewBox="0 0 16 16" fill="none" aria-hidden="true"><path d="M2 8h11M9 4l4 4-4 4" stroke="currentColor" stroke-width="1.5"/></svg></button><a class="vmaBtn vmaBtnGhost" href="#motion">All films in the studio</a><button type="button" class="vmaCtl sfReelPlay"></button></div>
   </div>

diff --git a/site/studio-river.css b/site/studio-river.css
@@ -68,3 +68,8 @@
 #motion .studyRiver .riverMake{order:2;margin:0;color:#c9c3b6;font-size:15px}
 #motion .studyRiver .riverMake a{color:#f1e1b8;text-decoration:underline;text-decoration-color:rgba(241,225,184,.4);text-underline-offset:4px}
 #motion .studyRiver .riverMake a:focus-visible{outline:2px solid #e9cf8f;outline-offset:3px}
+/* low-power devices: stills in place of live WebGL, and a way to opt back in */
+.riverMedia .riverStill{position:absolute;inset:0;width:100%;height:100%;object-fit:contain;display:block}
+#motion .studyRiver .riverLite{order:2;flex-basis:100%;margin:0;color:#c9c3b6;font-size:14px}
+#motion .studyRiver .riverLiteOn{background:none;border:0;padding:6px 0;min-height:36px;color:#f1e1b8;font:inherit;text-decoration:underline;text-underline-offset:4px;cursor:pointer}
+#motion .studyRiver .riverLiteOn:focus-visible{outline:2px solid #e9cf8f;outline-offset:3px}

diff --git a/site/studies/butterfly.html b/site/studies/butterfly.html
@@ -36,9 +36,10 @@
 (() => {
   const stage = document.getElementById('stage');
   const renderer = new THREE.WebGLRenderer({ antialias: false, alpha: true, powerPreference: 'high-performance' });
-  const DPR = Math.min(window.devicePixelRatio || 1, 2);
+  let DPR = Math.min(window.devicePixelRatio || 1, 2);
   renderer.setPixelRatio(DPR); renderer.setSize(innerWidth, innerHeight); renderer.setClearColor(0, 0);
   stage.appendChild(renderer.domElement);
+  if (window.studyAdapt) studyAdapt(renderer, r => { DPR = r; fit(); });
   const scene = new THREE.Scene(), camera = new THREE.PerspectiveCamera(34, innerWidth / innerHeight, .1, 100);
   let seed = 9901;
   const rnd = () => { seed = (seed + 0x6D2B79F5) | 0; let t = Math.imul(seed ^ (seed >>> 15), 1 | seed); t = (t + Math.imul(t ^ (t >>> 7), 61 | t)) ^ t; return ((t ^ (t >>> 14)) >>> 0) / 4294967296; };

diff --git a/site/studies/whale-glide.html b/site/studies/whale-glide.html
@@ -36,9 +36,10 @@
 (() => {
   const stage = document.getElementById('stage');
   const renderer = new THREE.WebGLRenderer({ antialias: false, alpha: true, powerPreference: 'high-performance' });
-  const DPR = Math.min(window.devicePixelRatio || 1, 2);
+  let DPR = Math.min(window.devicePixelRatio || 1, 2);
   renderer.setPixelRatio(DPR); renderer.setSize(innerWidth, innerHeight); renderer.setClearColor(0, 0);
   stage.appendChild(renderer.domElement);
+  if (window.studyAdapt) studyAdapt(renderer, r => { DPR = r; fit(); });
   const scene = new THREE.Scene(), camera = new THREE.PerspectiveCamera(34, innerWidth / innerHeight, .1, 100);
   let seed = 7121;
   const rnd = () => { seed = (seed + 0x6D2B79F5) | 0; let t = Math.imul(seed ^ (seed >>> 15), 1 | seed); t = (t + Math.imul(t ^ (t >>> 7), 61 | t)) ^ t; return ((t ^ (t >>> 14)) >>> 0) / 4294967296; };
